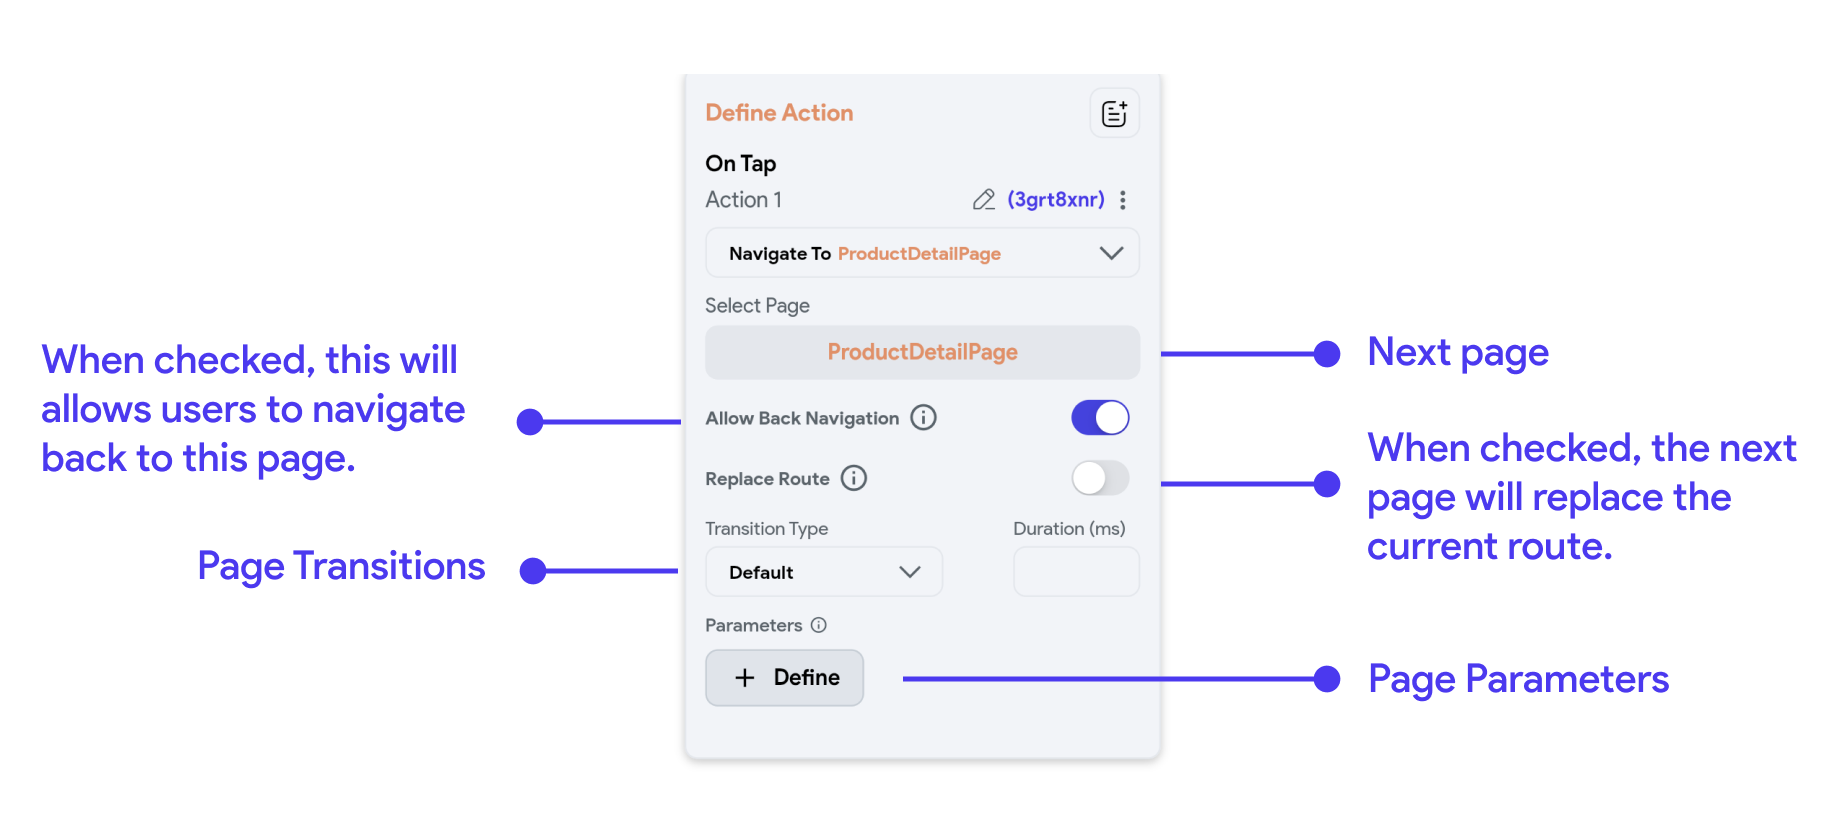
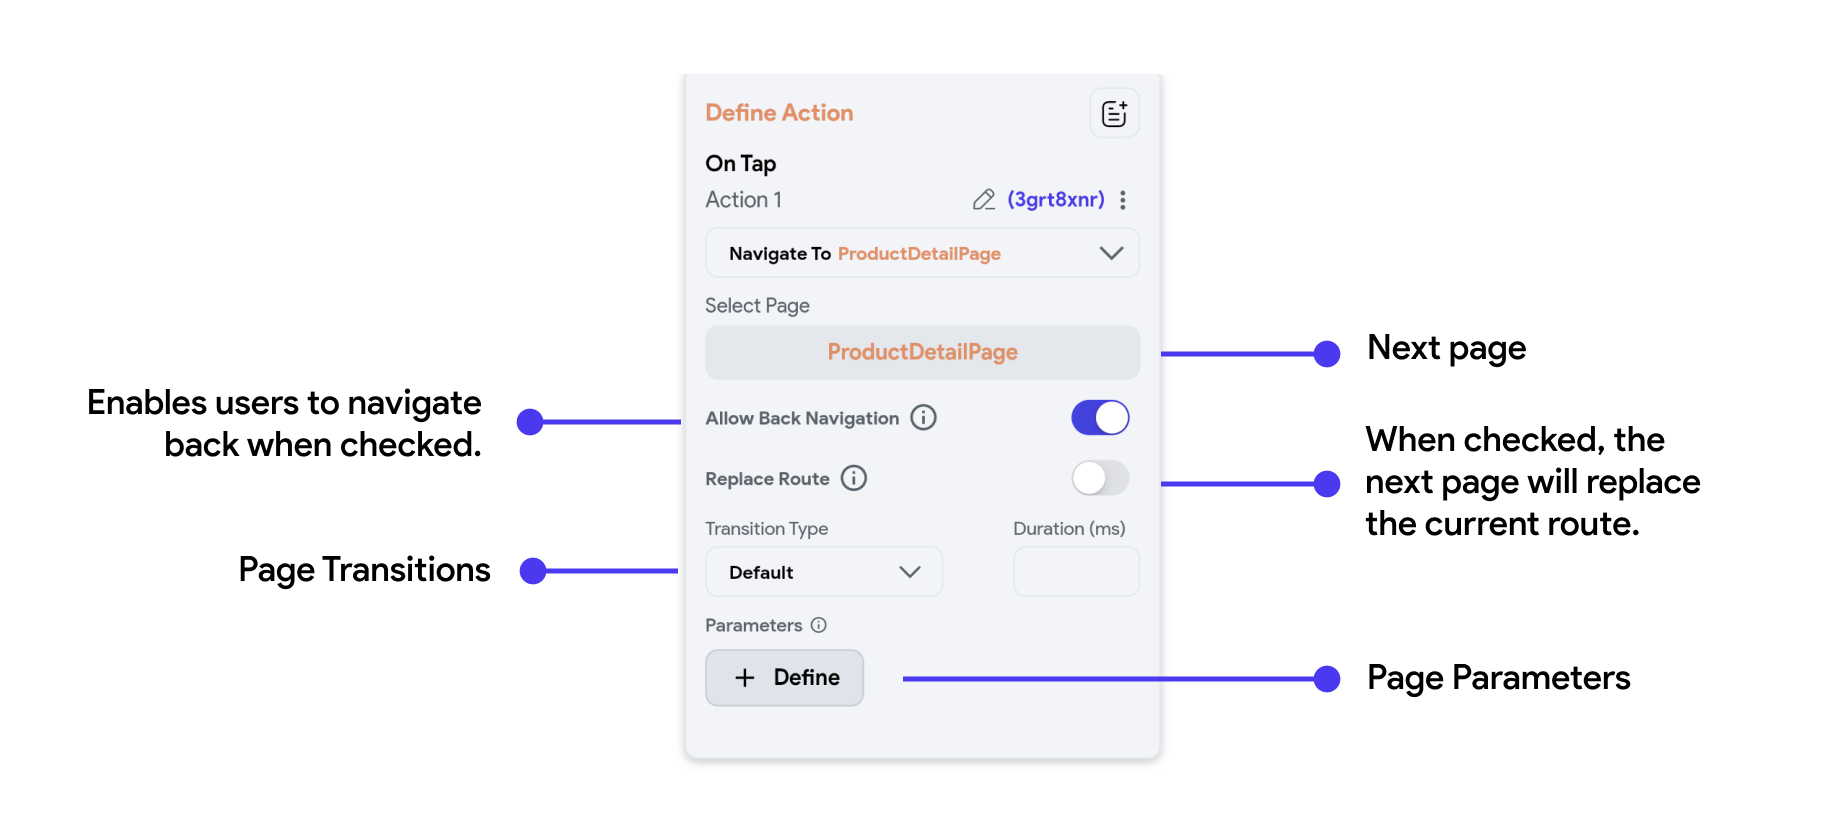
Changes to page navigation & overview

diff --git a/docs/resources/ui-building-blocks/pages/navigation.md b/docs/resources/ui-building-blocks/pages/navigation.md
@@ -7,9 +7,9 @@ sidebar_position: 3
 Navigation in FlutterFlow involves moving between different pages. This is
 handled through routing, where each page is identified by a unique route.
 Navigation can be programmed to happen on events like button clicks, leading to
-actions such as pushing a new route (opening a new page) or popping a route (
-returning to a previous page). FlutterFlow simplifies the routing process,
-allowing you to visually design the navigation flow of your app.
+actions such as pushing a new route (opening a new page) or popping a route (returning to a previous
+page). FlutterFlow simplifies the routing process, allowing you to visually design the navigation
+flow of your app.
 
 Let's see how to do that in FlutterFlow:
 
@@ -50,10 +50,7 @@ navigation-related properties:
 | **Replace Route**         | Toggle    | Use this option to replace the current page in the navigation stack. For example, if a user navigates from Page A to Page B and then to Page C, pressing the back button on Page C would normally return to Page B. However, if **Replace Route** is enabled on Page B, the route changes to Page A -> Page C; therefore, pressing the back button on Page C will take the user back to Page A. |
 | **Transition Type**       | Drop Down | This allows you to specify an animation that will be applied while navigating away from a screen. Options include **Default, Instant, Fade In, Slide Up, Slide Down, Slide Left, Slide Right,** and **Scale**.                                                                                                                                                                                  |
 | **Transition Duration**   | Double    | Set the duration of the transition animation in milliseconds                                                                                                                                                                                                                                                                                                                                    |
-| **Page Parameters**       | ?         | Use this to send data to the next page during navigation.                                                                                                                                                                                                                                                                                                                                       |
-
-
-
+| **Page Parameters**       |          | Use this to send data to the next page during navigation.                                                                                                                                                                                                                                                                                                                                       |
 
 :::info[Note]
 **Allow Back Navigation** does not affect the Android back button. To disable the Android back
@@ -61,8 +58,10 @@ button,
 set **Disable Android Back Button** property on the destination page.
 :::
 
-
-![Nav.png](..%2Fimgs%2FNav.png)
+<figure>
+    ![Nav.png](..%2Fimgs%2FNav.png)
+  <figcaption class="centered-caption">Properties of a Navigate To Action</figcaption>
+</figure>
 
 ### Navigate Back [Action]
 
@@ -96,7 +95,6 @@ previous section:
         allow="clipboard-write">
     </iframe>
 </div>
-
 
 ### Page Parameters
 
@@ -142,7 +140,7 @@ optional.
 
 ![Page-Params.png](..%2Fimgs%2FPage-Params.png)
 
-If you have created a Required Page Parameter and there is a Navigation Action
+If you have created a **Required** Page Parameter and there is a Navigation Action
 already set on your previous page, FlutterFlow will throw errors because this
 required parameter has not yet been sent from the previous page. Let's fix that:
 
@@ -173,10 +171,13 @@ required parameter has not yet been sent from the previous page. Let's fix that:
     </iframe>
 </div>
 
+<figure>
+    
+  <figcaption class="centered-caption"></figcaption>
+</figure>
 
 
-
-
+ 
 :::info[When to use Page Parameters?]
 Page parameters are used to pass essential data between pages that is not
 persisted in the app’s global state but is necessary for specific

diff --git a/docs/resources/ui-building-blocks/pages/pages-configuration.md b/docs/resources/ui-building-blocks/pages/pages-configuration.md
@@ -10,8 +10,9 @@ sidebar_position: 1
 In FlutterFlow, the properties panel located on the right side of the interface
 plays a crucial role in configuring and managing the various aspects of your
 pages. This panel is divided into several sections, each dedicated to different
-settings and adjustments you can make to customize your pages. Here’s a detailed
-look at what you can typically find and modify in this panel:
+settings and adjustments you can make to customize your pages.
+
+Here’s a detailed look at what you can typically find and modify in this panel:
 ![props-panel.png](..%2Fimgs%2Fprops-panel.png)
 
 ### Page Parameters
@@ -39,13 +40,12 @@ experiences.
 
 Here's an overview of these additional configurations:
 
-- Page Properties
-- Actions 
-- Backend Query
-- State Management
+- [Page Properties](#page-scaffold-properties)
+- [Actions](#actions)
+- [Backend Query](#backend-query)
+- [State Management](#state-management)
 
-//TODO Image to show all configurations UI , same as Pinkesh images
-
+![advanced-configs.png](..%2Fimgs%2Fadvanced-configs.png)
 
 ### Page (Scaffold) Properties
 
@@ -74,31 +74,21 @@ screen easily, such as in a login or payment screen.
 
 ### Actions
 
-![props.png](..%2Fimgs%2Fprops.png)
-
 This section allows you to define and manage interactions or events triggered by
 user actions. For example, you can configure a button to navigate to another
 page, submit form data, or call an API. Actions are crucial for creating
 interactive and functional apps.
 
 In the case of Scaffold (Page) actions, you can establish specific behaviors or
-functions that are triggered by certain events related to the page's lifecycle.
-
-For instance, the "On Page Load" action is a type of Page Action triggered when
-a page is first loaded or entered by a user. This action is part of the page's
-lifecycle methods, which are functions that execute at different stages of a
-page’s existence in the app, such as when it's created, displayed, or closed.
-
-//TODO show image when this tab is opened. 
-![action-props.png](..%2Fimgs%2Faction-props.png)
+functions that are triggered by certain events related to the page's lifecycle such as **On Page 
+Load** or **On Phone Shake**. 
 
 :::info[LEARN MORE]
-To learn about Page Lifecycle and more about the methods exposed by FlutterFlow, refer here. 
+To learn about the page lifecycle and other methods exposed by FlutterFlow, [**refer to this resource**](page-lifecycle.md).
 :::
 
 ### Backend Query
 
-![backend-query.png](..%2Fimgs%2Fbackend-query.png)
 Here, you can configure the page to fetch data from a backend source or
 database. This is typically done through API calls or direct database queries.
 Setting up a backend query allows the page to display dynamic content, such as
@@ -106,17 +96,16 @@ user profiles, product lists, or any other data your app needs to retrieve from
 a server.
 
 :::info[LEARN MORE]
-To learn more about how to connect to a backend source, refer to our Database section
+To learn more about how to connect to a backend source, refer to our [**Database section**](#)
 :::
 
 ### State Management
 
-![statemgm.png](..%2Fimgs%2Fstatemgm.png)
-
 State management configurations are essential for maintaining the state or
 status of a page across user interactions or app sessions. This can include
 tracking user inputs, remembering user choices, or preserving the app's state
-during navigation between pages. Proper state management ensures a smooth and
-consistent experience for users as they interact with your app.
+during navigation between pages. 
 
-<iframe src="https://demo.arcade.software/Qhg62nqMjhg8973XPQhb?embed&show_copy_link=true" title="app.flutterflow.io/authentication" frameborder="0" loading="lazy" webkitallowfullscreen mozallowfullscreen allowfullscreen allow="clipboard-write" width="100%" height="600"></iframe>
+:::info[LEARN MORE]
+Learn how to **[how to create and manage the update lifecycle](#)** of Page State variables
+:::

diff --git a/docs/resources/ui-building-blocks/pages/getting-started.md b/docs/resources/ui-building-blocks/pages/getting-started.md
@@ -26,10 +26,10 @@ Here's how the `Scaffold` contributes to page design in FlutterFlow:
 - **Body:** The main content area where you place your widgets for the body of the Page.
 
 :::note[PLEASE NOTE]
-In FlutterFlow, you won't find a section explicitly labeled as "Body".
-For example, in the following example, we have the `ProductDetailPage` and the ListView is
-the root of the widget tree and the rest of the body child widgets assembled under
-![body-page.png](..%2Fimgs%2Fbody-page.png)
+In FlutterFlow, you won't find a section explicitly labeled as "Body". For example, in the 
+`ProfileSettingsPage`, the `Column` serves as the root of the widget tree for the body, with the rest of the child widgets assembled underneath.
+
+![scaffold-elements.png](..%2Fimgs%2Fscaffold-elements.png)
 :::
 
 In FlutterFlow, you will find these Page Widgets under **Page Elements** in Widget Pallete.
